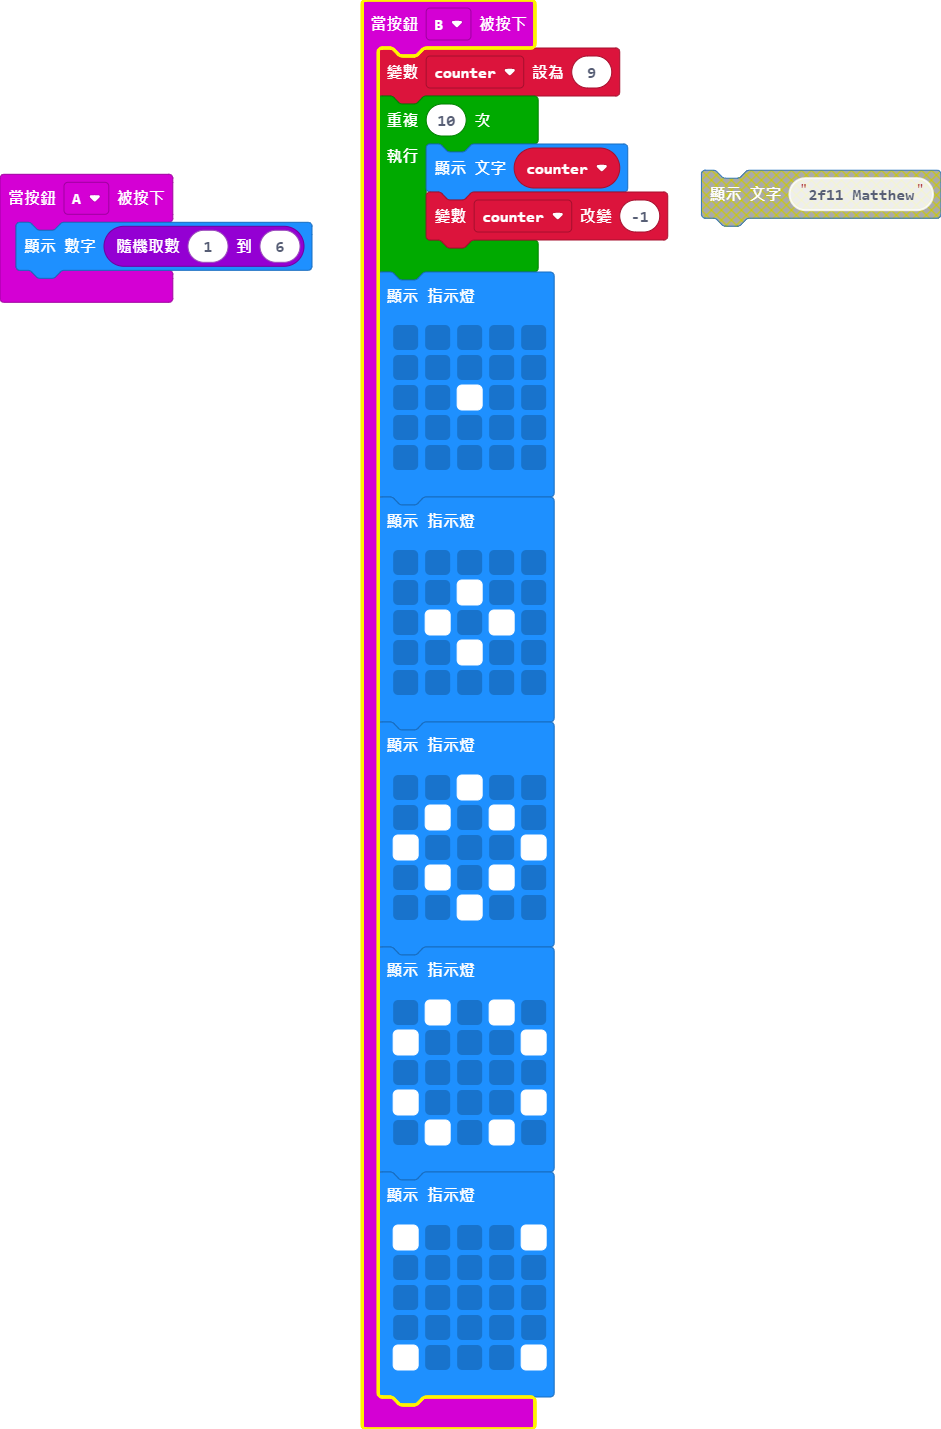
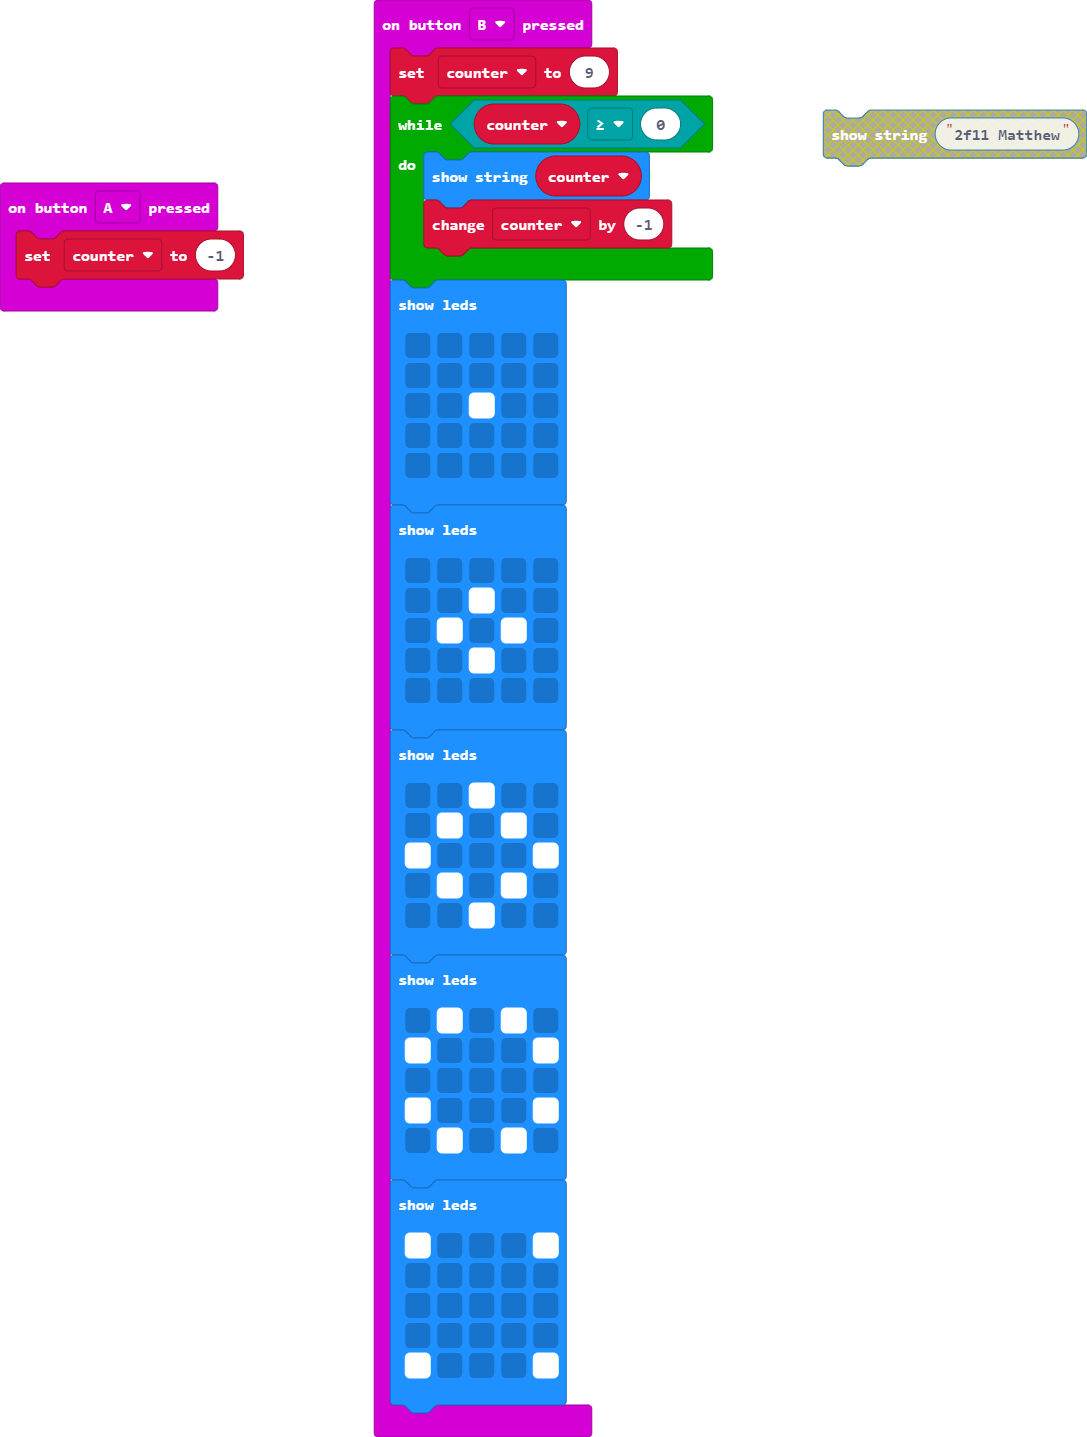
Update main.blocks, main.ts

Changed region(s): [[0.0, 0.0, 0.7088, 1.0], [0.7396, 0.0616, 1.0, 0.154]]

diff --git a/main.ts b/main.ts
@@ -1,10 +1,10 @@
 let counter = 0
 input.onButtonPressed(Button.A, function () {
-    basic.showNumber(randint(1, 6))
+    counter = -1
 })
 input.onButtonPressed(Button.B, function () {
     counter = 9
-    for (let index = 0; index < 10; index++) {
+    while (counter >= 0) {
         basic.showString("" + (counter))
         counter += -1
     }
